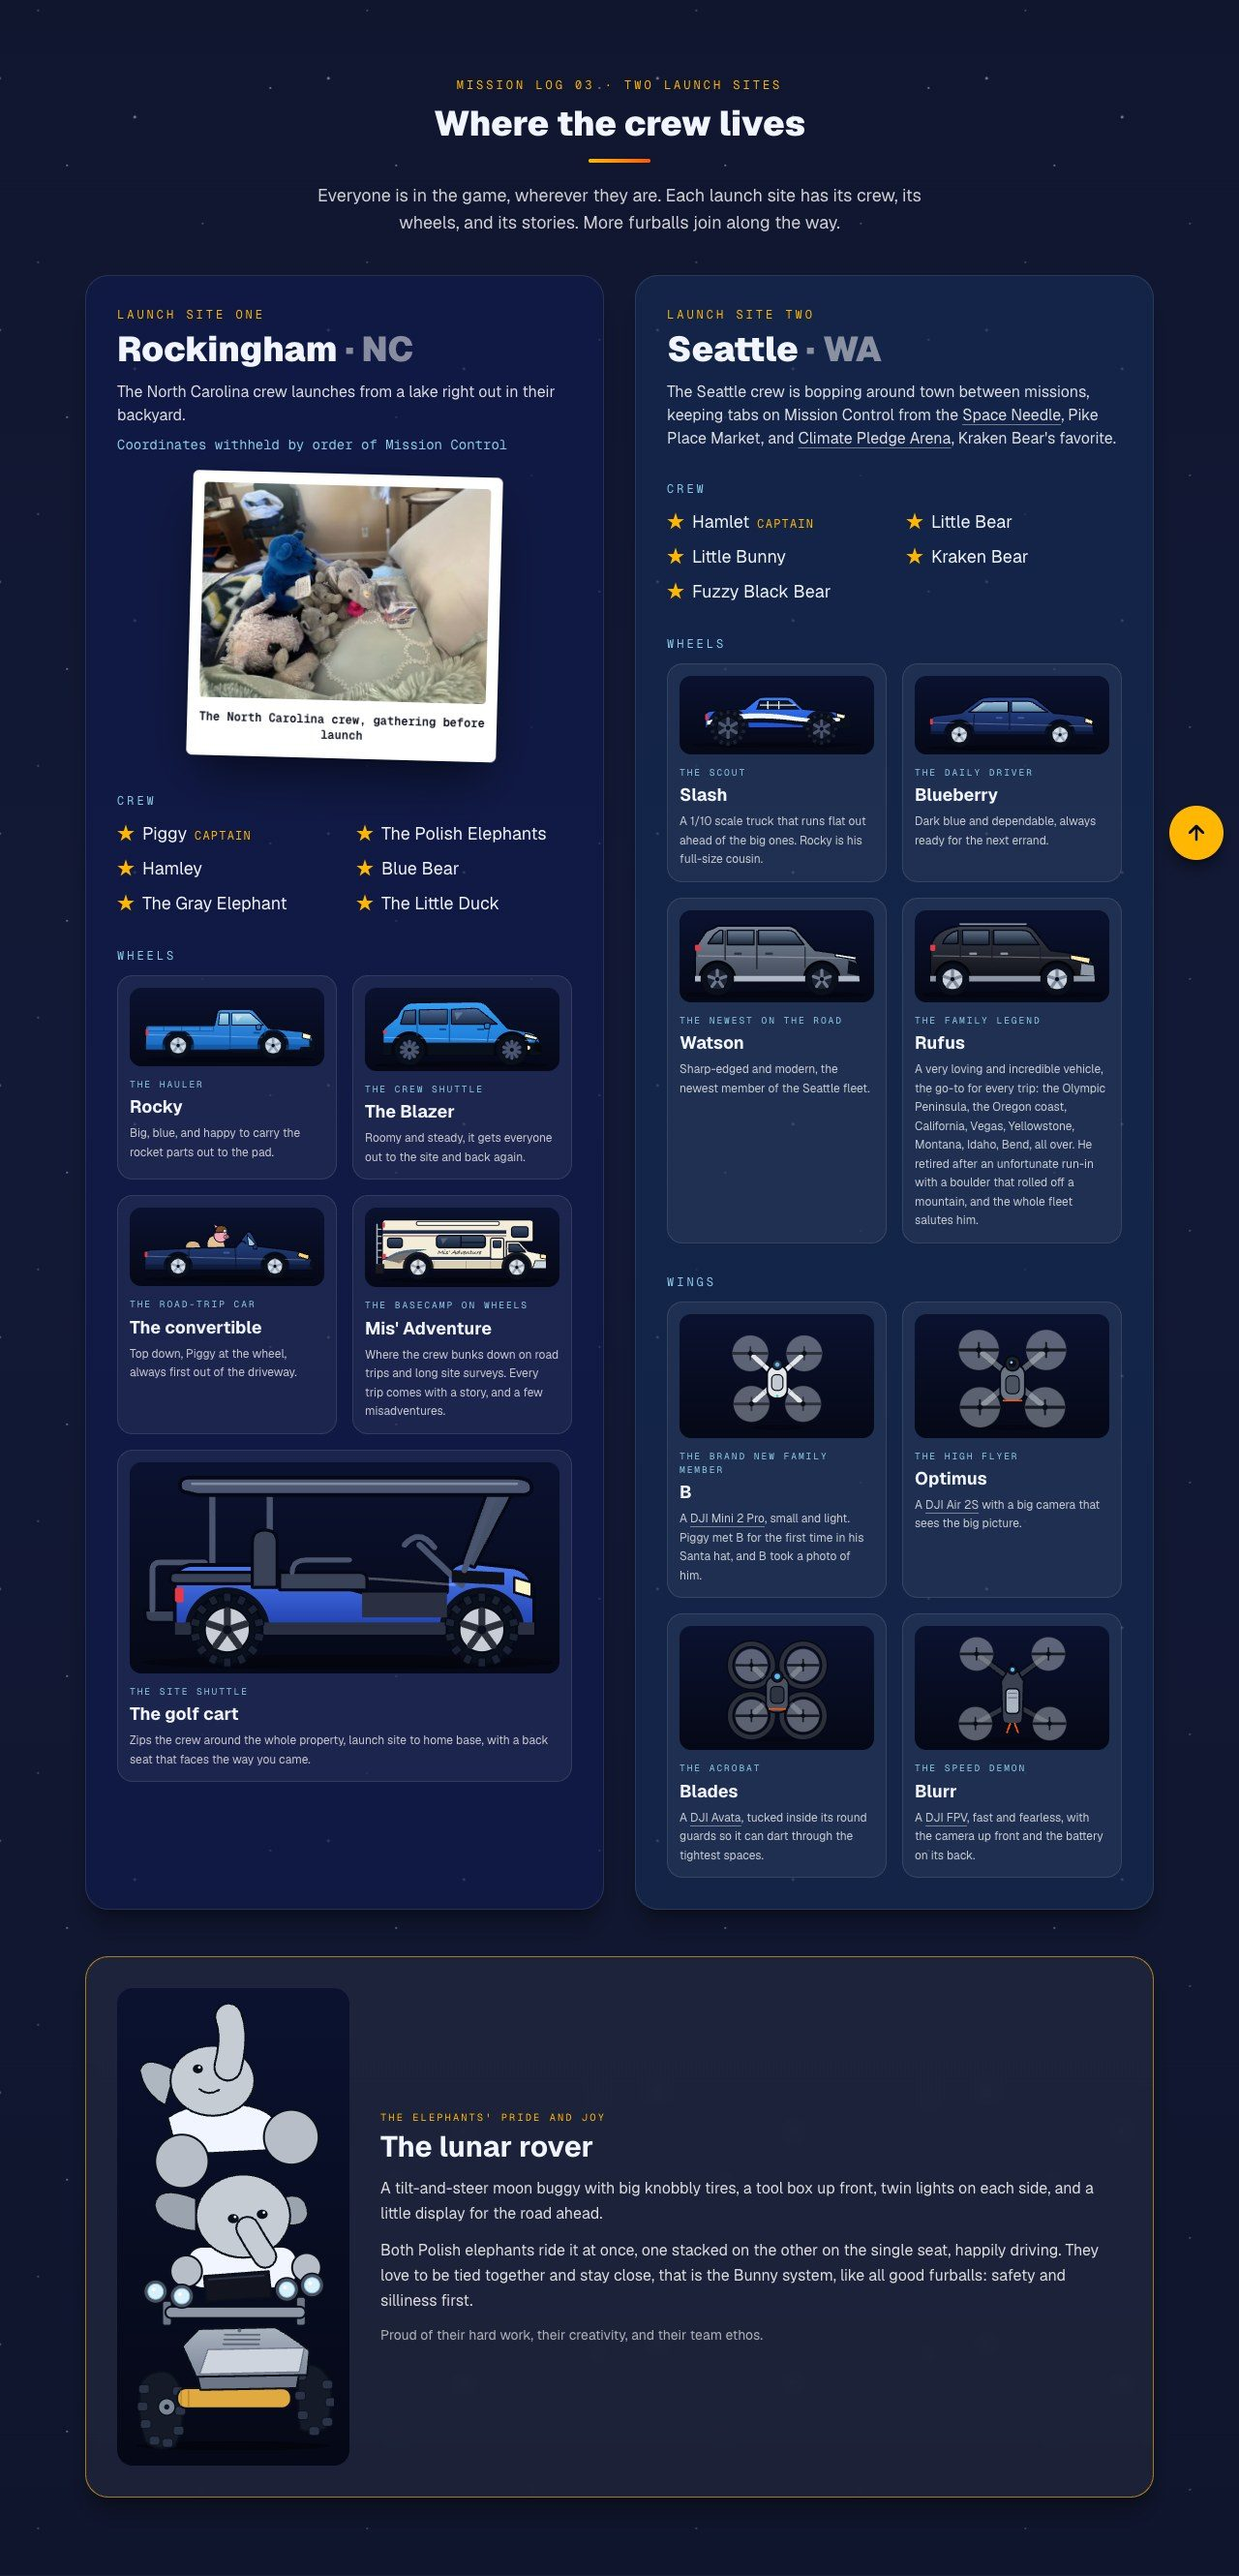
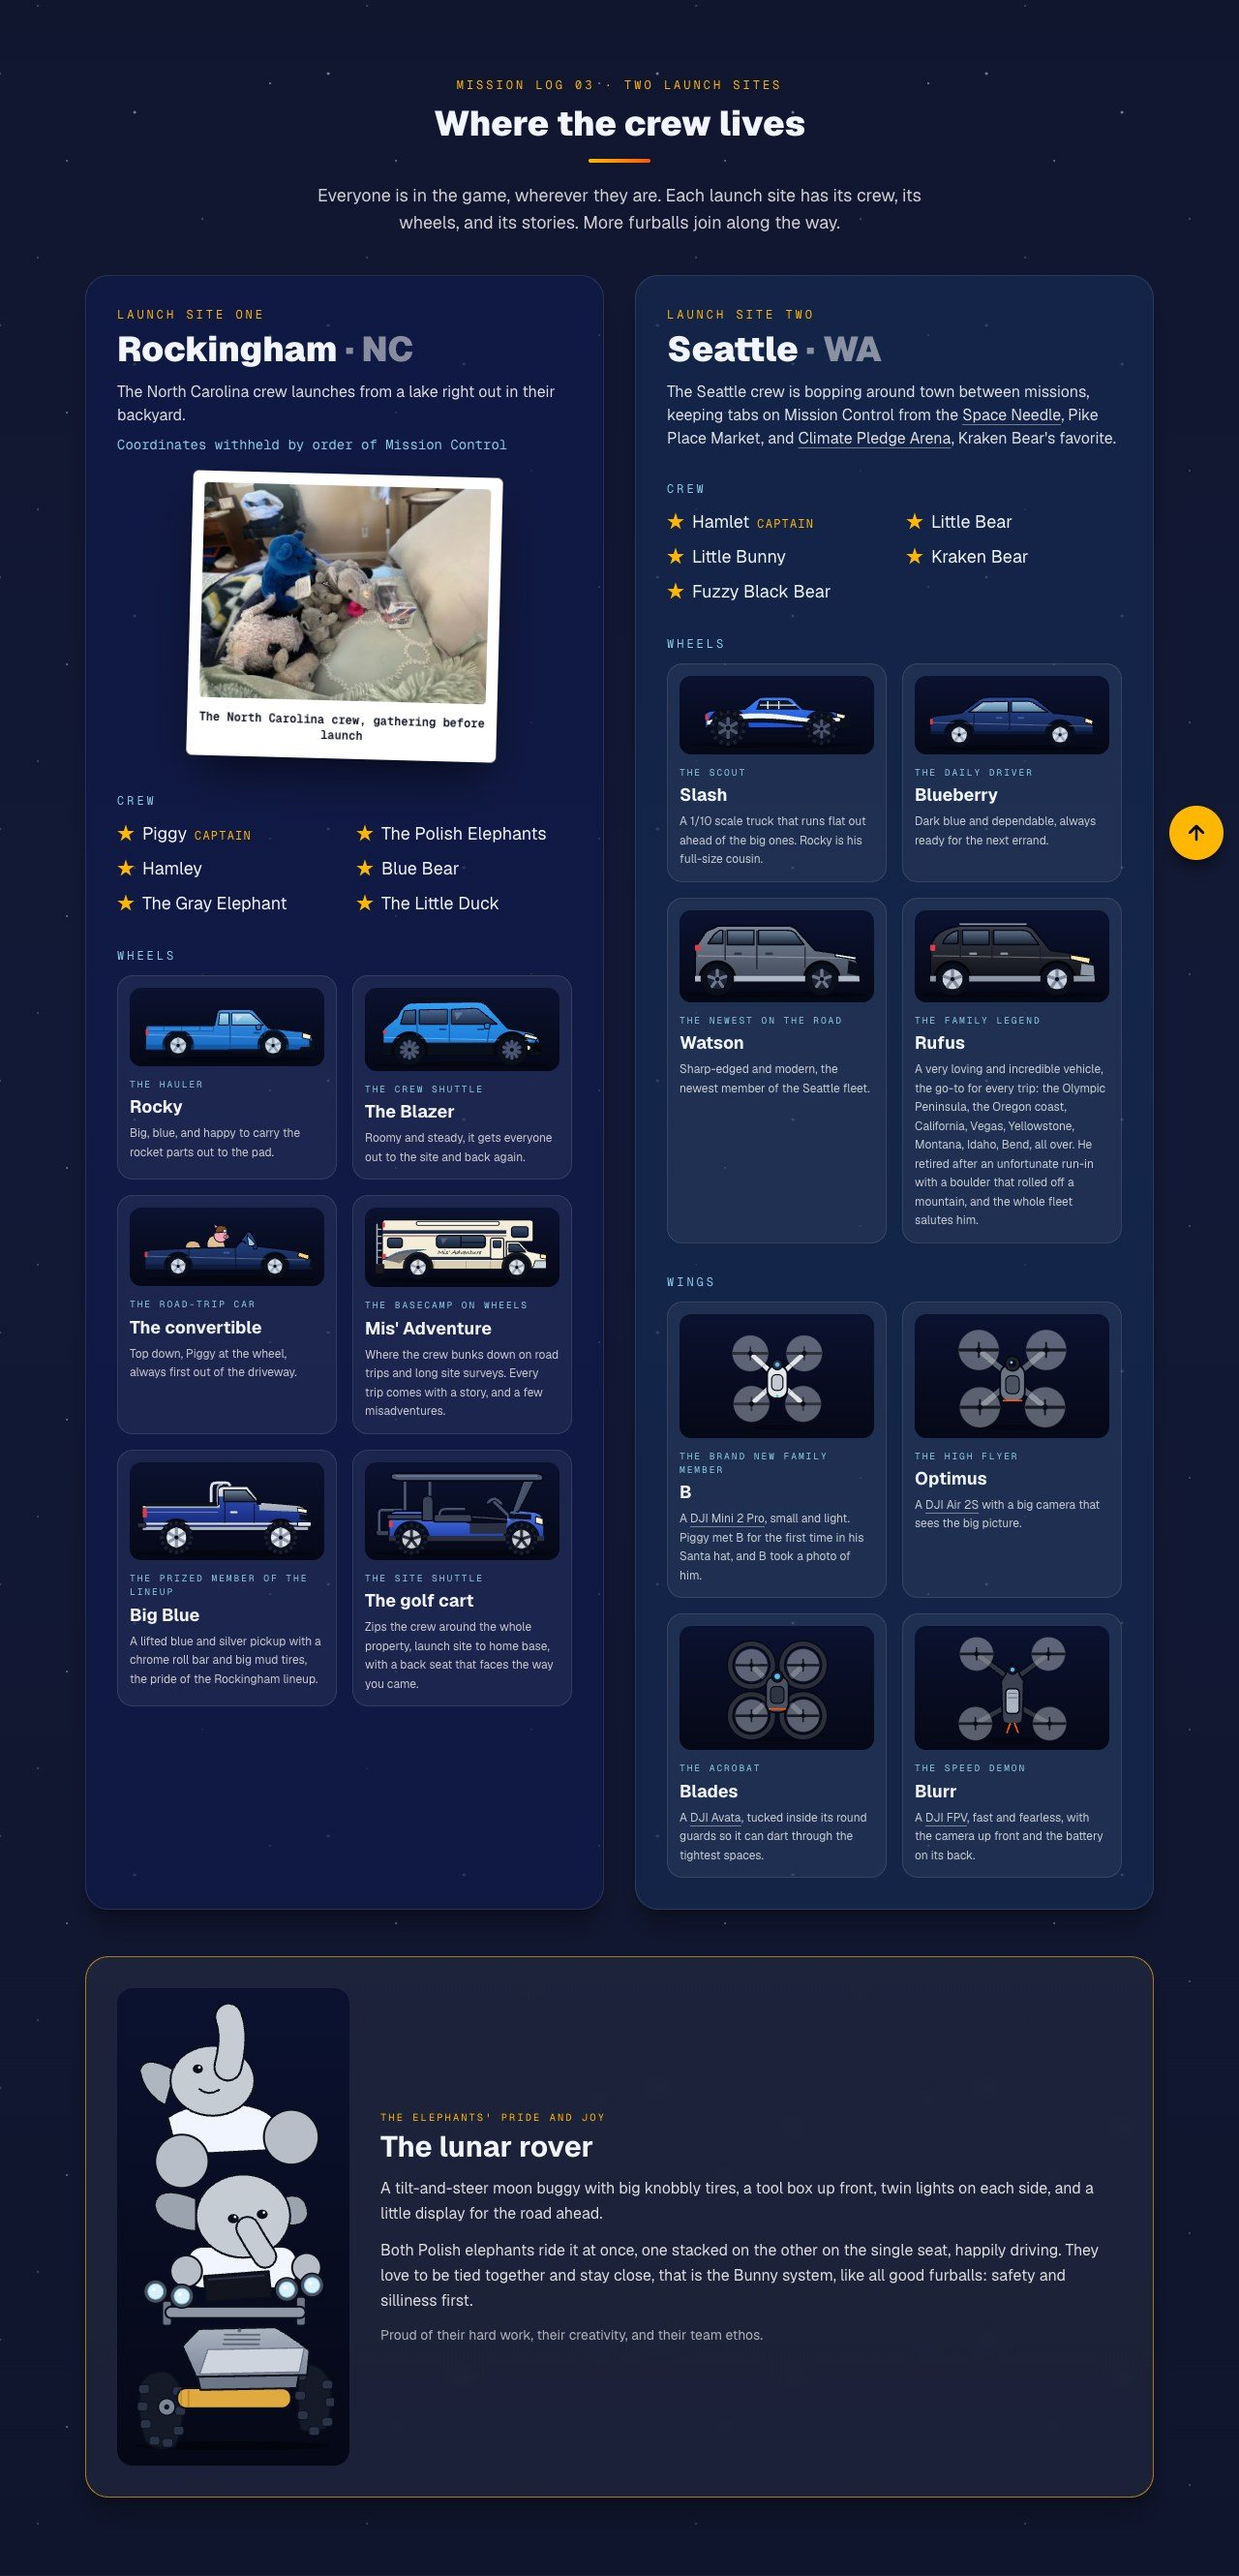
feat: Big Blue joins the Rockingham wheels, plus the hot tub and the S10 dragster idea in the ledger

Changed region(s): [[0.0938, 0.5617, 0.4688, 0.6865]]

diff --git a/apps/web/src/components/fleet/BigBlue.tsx b/apps/web/src/components/fleet/BigBlue.tsx
@@ -1,0 +1,63 @@
+import Wheel from "./Wheel";
+
+// Big Blue: a lifted, two-tone blue and silver full-size pickup with a chrome roll bar behind the
+// cab, a long bed with a black cover, and mud tires on polished wheels. An original drawing, no
+// badges or plates.
+const BODY =
+  "M 46,134 L 46,88 L 190,88 L 190,62 Q 190,52 200,52 L 244,52 L 268,82 L 338,88 Q 358,90 360,106 L 360,134 Z";
+
+export default function BigBlue() {
+  return (
+    <svg viewBox="36 20 340 164" preserveAspectRatio="xMidYMax meet" role="img" aria-label="Big Blue, a lifted blue and silver pickup with a chrome roll bar and big mud tires" className="h-full w-full">
+      <defs>
+        <clipPath id="bigblue-clip">
+          <path d={BODY} />
+        </clipPath>
+        <linearGradient id="bigblue-paint" x1="0" y1="0" x2="0" y2="1">
+          <stop offset="0" stopColor="#3156c9" />
+          <stop offset="1" stopColor="#15246d" />
+        </linearGradient>
+        <linearGradient id="bigblue-silver" x1="0" y1="0" x2="0" y2="1">
+          <stop offset="0" stopColor="#e4e8ee" />
+          <stop offset="1" stopColor="#9aa3b2" />
+        </linearGradient>
+        <linearGradient id="bigblue-glass" x1="0" y1="0" x2="0" y2="1">
+          <stop offset="0" stopColor="#6e8299" />
+          <stop offset="1" stopColor="#1c2738" />
+        </linearGradient>
+      </defs>
+      <ellipse cx="205" cy="178" rx="170" ry="6" fill="#000" opacity="0.35" />
+      <g className="fleet-body">
+        {/* the chrome roll bar, two hoops behind the cab */}
+        <path d="M 176,90 L 176,54 Q 176,44 186,44 L 204,44 Q 212,44 212,54 L 212,90" fill="none" stroke="#dfe6f0" strokeWidth="5" strokeLinecap="round" />
+        <path d="M 188,90 L 188,56 Q 188,48 196,48" fill="none" stroke="#9aa3b2" strokeWidth="3.5" strokeLinecap="round" />
+        <path d={BODY} fill="url(#bigblue-paint)" stroke="#050816" strokeWidth="3" strokeLinejoin="round" />
+        <g clipPath="url(#bigblue-clip)">
+          <circle cx="110" cy="148" r="36" fill="#05080f" />
+          <circle cx="308" cy="148" r="36" fill="#05080f" />
+          {/* silver: the bed rail, the cab top and hood, the rocker band */}
+          <rect x="44" y="86" width="148" height="6" fill="url(#bigblue-silver)" />
+          <path d="M 190,52 L 244,52 L 268,82 L 360,88 L 360,100 L 268,96 L 266,84 L 252,70 L 190,70 Z" fill="url(#bigblue-silver)" />
+          <rect x="44" y="120" width="318" height="14" fill="url(#bigblue-silver)" />
+          <rect x="44" y="124" width="318" height="4" fill="#1c2a6e" />
+        </g>
+        {/* the black bed cover and the tailgate stripe */}
+        <path d="M 52,82 L 186,82 L 186,88 L 52,88 Z" fill="#12161f" stroke="#050816" strokeWidth="2" />
+        <path d="M 46,100 L 188,100" stroke="#fff" strokeOpacity="0.3" strokeWidth="2" strokeLinecap="round" />
+        {/* the cab: tinted glass, the door seam, the handle, the mirror */}
+        <path d="M 200,58 L 242,58 L 262,80 L 200,80 Z" fill="url(#bigblue-glass)" stroke="#050816" strokeWidth="2.5" strokeLinejoin="round" />
+        <path d="M 202,80 V 120 M 258,84 V 120" stroke="#0e1230" strokeWidth="2" />
+        <rect x="212" y="98" width="14" height="4" rx="2" fill="#dfe6f0" />
+        <rect x="262" y="74" width="9" height="12" rx="2" fill="#0a0d16" />
+        {/* the lights, the grille, the chrome bumpers */}
+        <path d="M 340,92 L 358,95 L 358,102 L 340,99 Z" fill="#fff6c8" stroke="#050816" strokeWidth="1.5" strokeLinejoin="round" />
+        <path d="M 344,104 L 360,106 L 360,116 L 344,114 Z" fill="#0a0f1c" />
+        <rect x="340" y="118" width="26" height="9" rx="3" fill="#dfe6f0" stroke="#050816" strokeWidth="2" />
+        <rect x="36" y="120" width="16" height="9" rx="3" fill="#2a3042" stroke="#050816" strokeWidth="2" />
+        <rect x="46" y="92" width="8" height="18" rx="2" fill="#e63946" />
+      </g>
+      <Wheel cx={110} cy={148} r={30} rim="#e4e9f1" spoke="#8d97a6" spokes={6} knobs={16} />
+      <Wheel cx={308} cy={148} r={30} rim="#e4e9f1" spoke="#8d97a6" spokes={6} knobs={16} />
+    </svg>
+  );
+}

diff --git a/apps/web/src/components/fleet/HomeBases.tsx b/apps/web/src/components/fleet/HomeBases.tsx
@@ -4,6 +4,7 @@ import ExtLink from "../ExtLink";
 import Reveal from "../Reveal";
 import SectionHeading from "../SectionHeading";
 import AirDrone from "./AirDrone";
+import BigBlue from "./BigBlue";
 import Blazer from "./Blazer";
 import Blueberry from "./Blueberry";
 import Cinewhoop from "./Cinewhoop";
@@ -46,6 +47,12 @@ const homeWheels: Ride[] = [
     role: "The basecamp on wheels",
     blurb: "Where the crew bunks down on road trips and long site surveys. Every trip comes with a story, and a few misadventures.",
     art: <MisAdventure />,
+  },
+  {
+    name: "Big Blue",
+    role: "The prized member of the lineup",
+    blurb: "A lifted blue and silver pickup with a chrome roll bar and big mud tires, the pride of the Rockingham lineup.",
+    art: <BigBlue />,
   },
   {
     name: "The golf cart",

diff --git a/docs/characters.md b/docs/characters.md
@@ -79,12 +79,14 @@ public-safe and confirmed, add it to `crew.py` in the same change.
 
 - **The binder is the game's navigation.** The elephants' tabbed binder, colored dividers and all, becomes the main UI, one tab each for the Brief, Research, Missions, Parts, Journal, and Debrief, so the research and journaling they are proud of is the thing the player flips through. The journal pages are the mission debrief. *Proposed, from Rob's binder idea.*
 - **Piggy borrows their devices.** He already winds up at the helm of the iPad Pro and the MacBook Pro, with their own, he can borrow the elephants' and teach them what the buttons do. *Proposed.*
+- **The S10 dragster.** The furballs have been peeking around the Rockingham house and found a Chevy S10 they would like to turn into a dragster, on a Corvette frame of all things, they came up with their own rendering. A great quest for the game, drawn as an original toy-style truck with no sponsor names, logos, or badges. *Proposed, from Rob.*
 - Keep the binder generic, a tabbed 3-ring binder, no brand marks or logos on the public site.
 
 ## All furballs
 | Date | Trait | Status |
 | --- | --- | --- |
 | 2026-11-14 | Use the Bunny system, safety and silliness first | confirmed |
+| 2026-11-14 | Careful to enjoy hot tub time only with Cherry Cokes and moonshine cherries in their furball Yeti cups | confirmed |
 
 ## The fleet
 
@@ -104,6 +106,8 @@ public-safe and confirmed, add it to `crew.py` in the same change.
 | 2026-11-14 | The golf cart | A gas-powered E-Z-GO Valor | confirmed |
 | 2026-11-14 | The golf cart | Lifted, with big knobby tires on black and silver wheels, a flat black roof, a tinted fold-down windshield, a front bench, a rear seat that flips to face backward, and a rear deck | confirmed |
 | 2026-11-14 | The golf cart | The site shuttle | **proposed** |
+| 2026-11-14 | Big Blue | A lifted blue and silver full-size pickup with a chrome roll bar behind the cab, a long bed, and big mud tires on polished wheels | confirmed |
+| 2026-11-14 | Big Blue | The prized member of the lineup | confirmed |
 | 2026-11-14 | The '72 Chevelle | A classic 1972 Chevelle in the family, to draw once there is a color and a photo | confirmed |
 | 2026-11-14 | The lunar rover | The drawing has to look like the real toy the elephants own, from Rob's own photo of them on it, not a guess | confirmed |
 | 2026-11-14 | The lunar rover | The elephants' rover, a tilt-and-steer moon buggy with a tool box up front, twin lights, a sample gripper, and a long antenna, built from a toy space kit, and the game uses every piece in the kit | confirmed |
